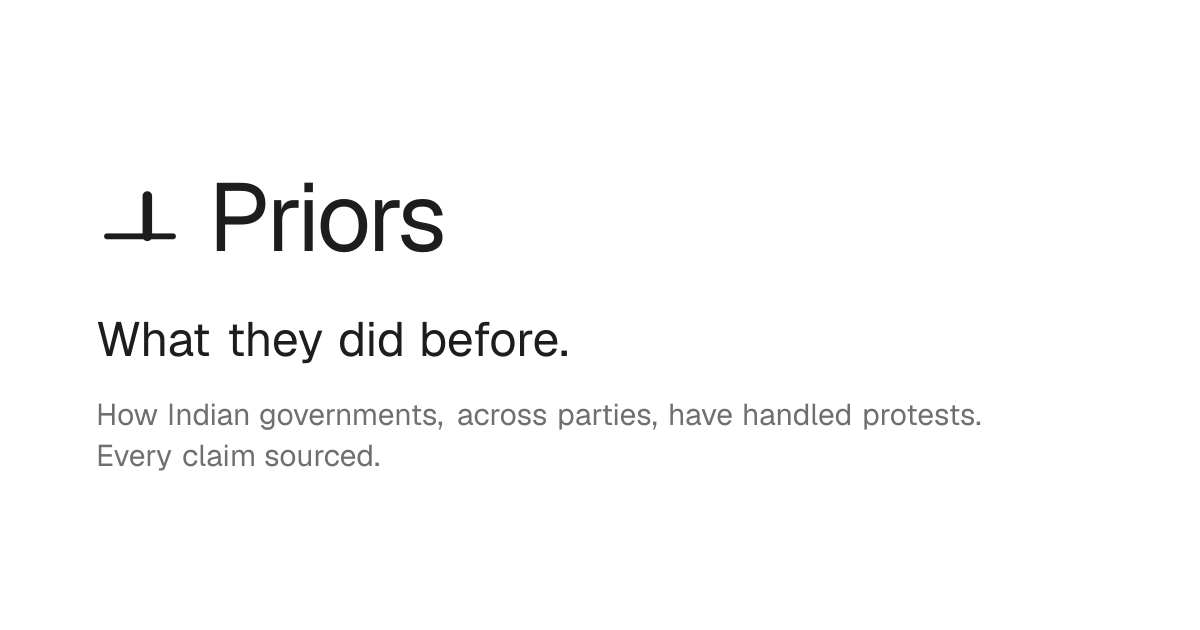
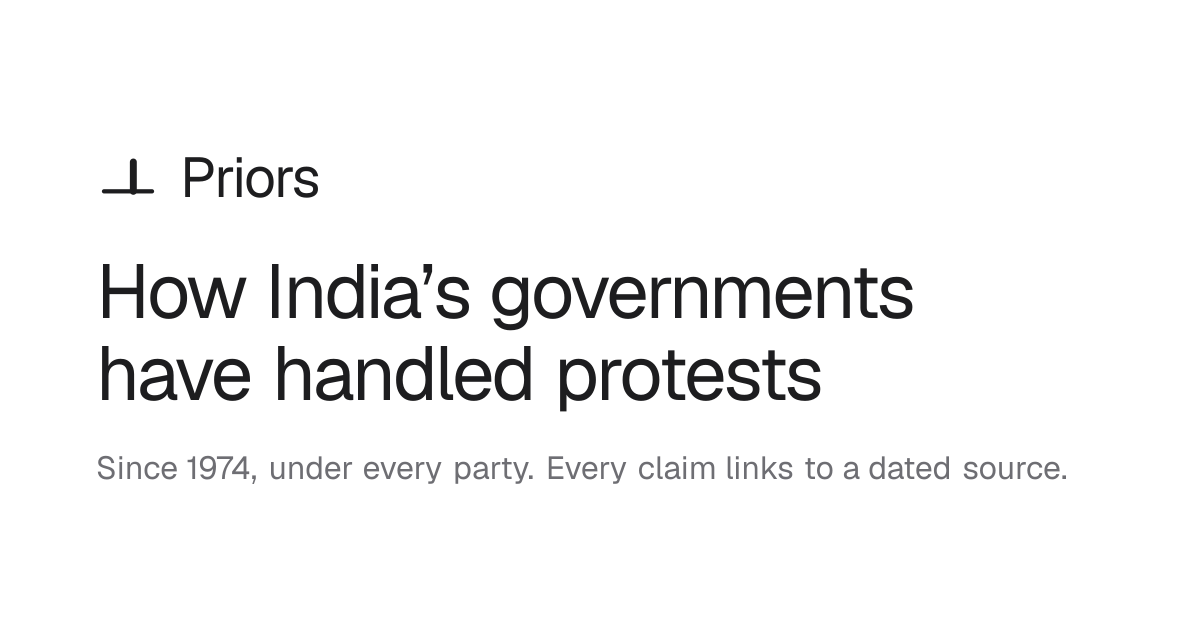
Use the new headline everywhere the site describes itself
The tab title, link-preview description, share card image and alt text,
README, package description, citation title and handoff now say "How
India's governments have handled protests". README badge points at the
renamed checks.yml.

Changed region(s): [[0.0617, 0.2413, 0.8942, 0.7841]]

diff --git a/src/app/layout.tsx b/src/app/layout.tsx
@@ -5,12 +5,12 @@ import { fmtDate, siteUpdated } from "@/lib/content";
 import "./globals.css";
 
 const DESCRIPTION =
-  "How Indian governments, across parties, have handled protests. Today's event, compared with the record. Every claim sourced.";
+  "How India’s governments have handled protests since 1974, under every party, at the Centre and in the states. Every claim links to a dated source.";
 
 export const metadata: Metadata = {
   // Origin only: Next adds the base path to image and canonical URLs itself.
   metadataBase: new URL(new URL(SITE_URL).origin),
-  title: { default: "Priors: what they did before", template: "%s · Priors" },
+  title: { default: "Priors: how India’s governments have handled protests", template: "%s · Priors" },
   description: DESCRIPTION,
   openGraph: { siteName: "Priors", type: "website", locale: "en_IN", description: DESCRIPTION },
   twitter: { card: "summary_large_image" },

diff --git a/src/app/page.tsx b/src/app/page.tsx
@@ -22,7 +22,7 @@ export default function Home() {
   return (
     <div className="space-y-16 sm:space-y-24">
       <section>
-        <h1 className="t-hero">How India&apos;s governments have handled protests</h1>
+        <h1 className="t-hero">How India’s governments have handled protests</h1>
         <p className="lede mt-5 measure">
           Since {s.from}, under every party, at the Centre and in the states. Every claim links to a dated source.
         </p>

diff --git a/README.md b/README.md
@@ -1,8 +1,8 @@
 <img src="assets/icon.svg" width="64" height="64" alt="">
 
-# Priors — what they did before
+# Priors: how India’s governments have handled protests
 
-[![CI](https://github.com/theachyuttiwari/priors-of-indian-history/actions/workflows/ci.yml/badge.svg)](https://github.com/theachyuttiwari/priors-of-indian-history/actions/workflows/ci.yml)
+[![CI](https://github.com/theachyuttiwari/priors-of-indian-history/actions/workflows/checks.yml/badge.svg)](https://github.com/theachyuttiwari/priors-of-indian-history/actions/workflows/checks.yml)
 [![Code: MIT](https://img.shields.io/badge/code-MIT-lightgrey.svg)](LICENSE)
 [![Content: CC BY 4.0](https://img.shields.io/badge/content-CC%20BY%204.0-lightgrey.svg)](content/LICENSE)
 

diff --git a/HANDOFF.md b/HANDOFF.md
@@ -10,7 +10,8 @@ cases, across every party at the Centre and in the states. Every claim links to 
 
 Decisions made by the owner (do not re-open):
 
-- Name: **Priors**. Tagline: "What they did before."
+- Name: **Priors**. Headline (owner, 2026-10-15): "How India’s governments have handled protests".
+  It replaced "What they did before", which read as vague and as a gotcha.
 - Phase 1: protest handling only, made rock solid (citations, quotes, mobile-first UI). Phase 2 (other
   topics, pre-1947) waits for public response and the owner's word.
 - Static site, refreshed by hand. Most readers are on phones: design and check at 390 px first.
